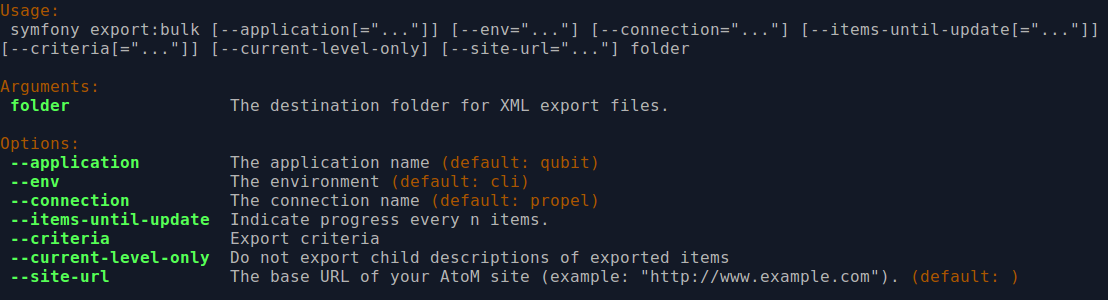
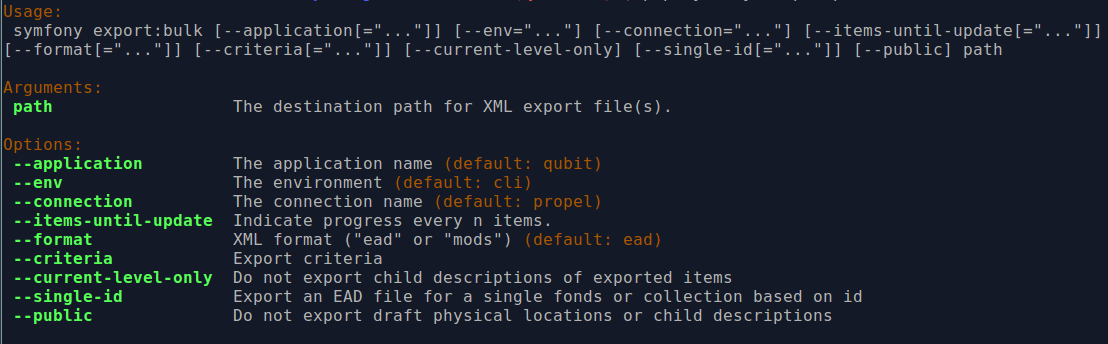
update bulk export, refs #7262, #5954

Changed region(s): [[0.0, 0.24, 0.9206, 0.96], [0.0, 0.0, 1.0, 0.18], [0.1841, 0.27, 0.6137, 0.39]]

diff --git a/admin-manual/maintenance/cli-tools.rst b/admin-manual/maintenance/cli-tools.rst
@@ -884,20 +884,6 @@ The ``--application``, ``--env``, and ``connection`` options **should not be
 used** - AtoM requires the uses of the pre-set defaults for symfony to be
 able to execute the import.
 
-The ``--site-url`` option **should** be used to ensure that any links included
-in the resulting XML file are formed correctly. When using the
-:term:`user interface`, AtoM is able to receive routing information via the
-web server (e.g. Nginx, Apache), but in the command-line environment, AtoM has
-no way of knowing the URL to your assets. Because of this, links
-included in your XML files may be incorrect. The ``--site-url`` option allows
-you to specify the base URL of your site - for example, if your AtoM instance
-is hosted at ``http://www.example.com``, you can enter this as your base site
-url to ensure proper routing of links in the XML output:
-
-.. code:: bash
-
-   php symfony export:bulk --site-url="http://www.example.com" /path/to/my/xmlExportFolder
-
 The ``--items-until-update`` option can be used for a simple visual
 representation of progress in the command-line. Enter a whole integer, to
 represent the number of XML files that should be exported before the
@@ -916,6 +902,13 @@ Example use reporting progress every 5 rows:
 This can be useful for large bulk exports, to ensure the export is still
 progressing, and to try to roughly determine how far the task has progressed
 and how long it will take to complete.
+
+The ``--format`` option will determine whether the target export uses EAD XML,
+or MODS XML. When not set, the default is to export using EAD. Example use:
+
+.. code-block:: bash
+
+   php symfony export:bulk --format="mods" /path/to/my/exportFolder
 
 The ``--criteria`` option can be added if you would like to use raw SQL to
 target specific descriptions.
@@ -963,6 +956,18 @@ the exported descriptions to a union catalogue or regional portal that only
 accepts collection/fonds-level descriptions. If a lower-level description
 (e.g. a series, file, or item) is the target of the export, it's
 :term:`parents <parent record>` will not be exported either.
+
+The ``--single-id`` option can be used to to target a single :term:`archival unit`
+(e.g. fonds, collection, etc) for export, if you know the internal ID of the
+target description.
+
+The  ``--public`` option is useful for excluding draft records from an export.
+Normally, all records in a hierarchical tree will be exported regardless of
+:term:`publication status`. Note that if a published record is the child of a
+draft record, it will **not** be included when this option is used - when the
+parent is skipped (as a draft record), the children are also skipped, so as not
+to break the established hierarchy.
+
 
 .. SEEALSO::
 
